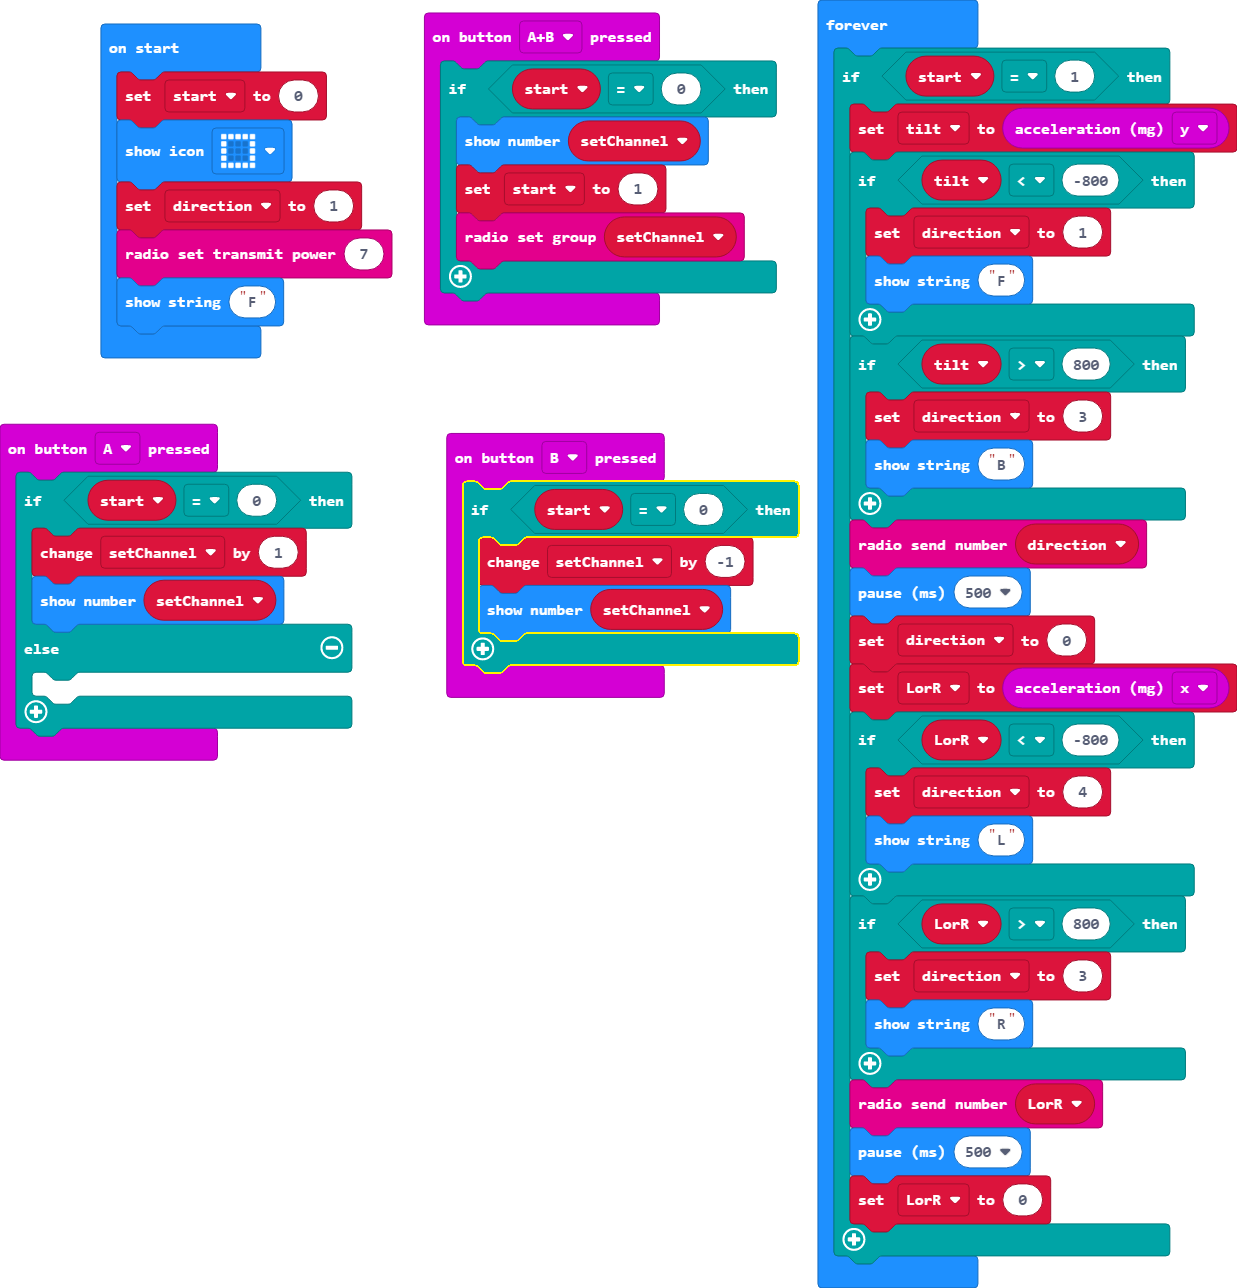
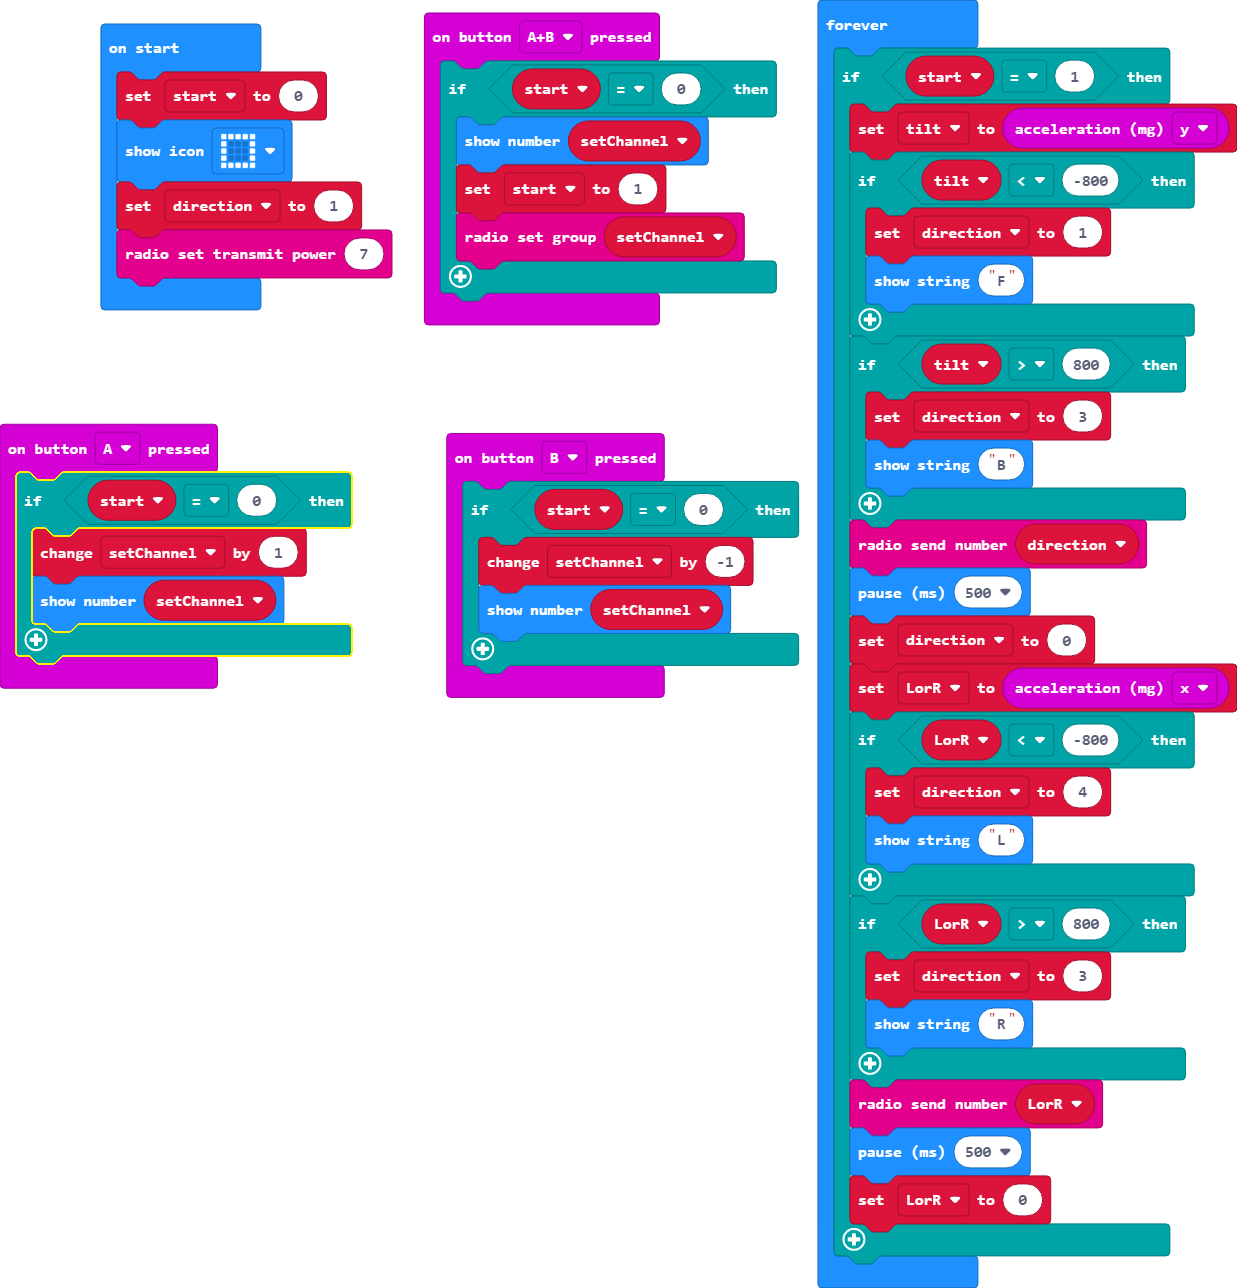
Update main.blocks, main.ts

Changed region(s): [[0.0, 0.4348, 0.3072, 0.5901], [0.0614, 0.2174, 0.2458, 0.2795], [0.3686, 0.4348, 0.3994, 0.4969]]

diff --git a/main.ts b/main.ts
@@ -2,8 +2,6 @@ input.onButtonPressed(Button.A, function () {
     if (start == 0) {
         setChannel += 1
         basic.showNumber(setChannel)
-    } else {
-    	
     }
 })
 input.onButtonPressed(Button.AB, function () {
@@ -27,7 +25,6 @@ start = 0
 basic.showIcon(IconNames.Square)
 let direction = 1
 radio.setTransmitPower(7)
-basic.showString("F")
 basic.forever(function () {
     if (start == 1) {
         tilt = input.acceleration(Dimension.Y)
